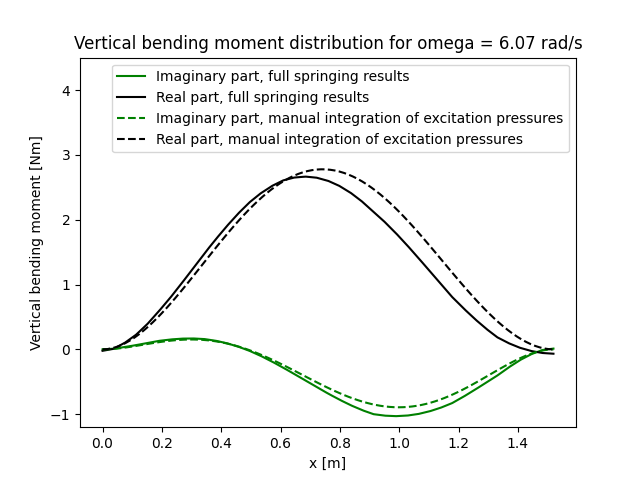
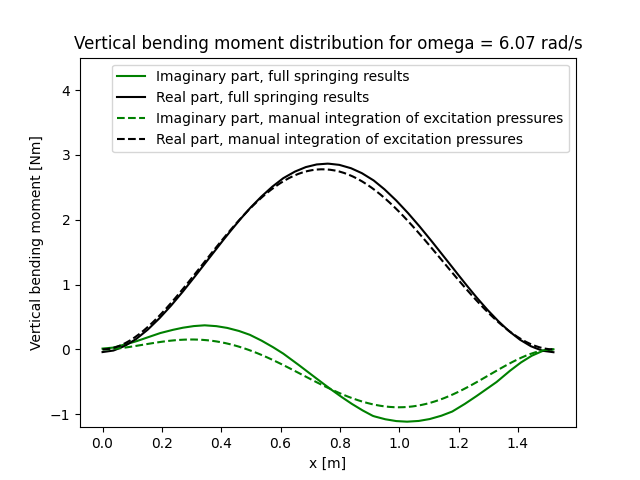
BUGFIX: changed sign of radiation damping from i omega B to -i omega B. This is because Capytaine assumes f(t) = Re(F exp(-i omega t)) for any time dependent quantity f and its complex representation F.

diff --git a/containerShipModelProperSolution.py b/containerShipModelProperSolution.py
@@ -4,6 +4,8 @@ import xarray as xr
 import os
 import springing as spr
 from matplotlib import pyplot as plt
+from capytaine.bem.airy_waves import airy_waves_free_surface_elevation
+from capytaine.ui.vtk.animation import Animation
 
 cpt.set_logging('INFO')
 
@@ -181,52 +183,14 @@ for i in range(omegas.size):
     structuralMassModalForces[i, :] = -omegas[i]**2 * modalSpringingResults.modalAmplitudes.values[i, 0, :]
     addedMassModalForces[i, :] = -omegas[i]**2 * modalSpringingResults.addedMass.values[i, :, :].transpose() @ modalSpringingResults.modalAmplitudes.values[i, 0, :]
 
-    radiationModalForces[i, :] = complex(0, 1) * omegas[i] * modalSpringingResults.radiationDamping.values[i, :, :].transpose() @ modalSpringingResults.modalAmplitudes.values[i, 0, :]
+    radiationModalForces[i, :] = -complex(0, 1) * omegas[i] * modalSpringingResults.radiationDamping.values[i, :, :].transpose() @ modalSpringingResults.modalAmplitudes.values[i, 0, :]
 
     hydrostaticStiffnessModalForces[i, :] = hydrostaticStiffness.values @ modalSpringingResults.modalAmplitudes.values[i, 0, :]
     structuralStiffnessModalForces[i, :] = np.diag(dryNaturalFrequenciesSquared) @ modalSpringingResults.modalAmplitudes.values[i, 0, :]
 
     matrixTimesAmplitudesModalForces[i, :] = modalSpringingResults.modalForcesFromAmplitudesMatrices.values[i, :, :].transpose() @ modalSpringingResults.modalAmplitudes.values[i, 0, :]
 
-    modalForcesFromDisplacementsMatrices[i, :, :] = -omegas[i]**2 * (np.eye((beamSegments + 1) * 7) + modalSpringingResults.addedMass.values[i, :, :].transpose()) + complex(0, 1) * omegas[i] * modalSpringingResults.radiationDamping.values[i, :, :].transpose() + hydrostaticStiffness.values + np.diag(dryNaturalFrequenciesSquared)
-
-# excitationModalForces = froudeKrylovModalForces + diffractionModalForces
-
-# excitationRigidBodyModalForcesNorms = np.linalg.norm(excitationModalForces[:, :6], axis = 1)
-
-# froudeKrylovRigidBodyModalForcesNorms = np.linalg.norm(froudeKrylovModalForces[:, :6], axis = 1)
-# diffractionRigidBodyModalForcesNorms = np.linalg.norm(diffractionModalForces[:, :6], axis = 1)
-# structuralMassRigidBodyModalForcesNorms = np.linalg.norm(structuralMassModalForces[:, :6], axis = 1)
-# addedMassRigidBodyModalForcesNorms = np.linalg.norm(addedMassModalForces[:, :6], axis = 1)
-# radiationRigidBodyModalForcesNorms = np.linalg.norm(radiationModalForces[:, :6], axis = 1)
-# hydrostaticStiffnessRigidBodyModalForcesNorms = np.linalg.norm(hydrostaticStiffnessModalForces[:, :6], axis = 1)
-# structuralStiffnessRigidBodyModalForcesNorms = np.linalg.norm(structuralStiffnessModalForces[:, :6], axis = 1)
-
-# froudeKrylovRigidBodyModalForcesCosWRTExcitation = np.sum(froudeKrylovModalForces[:, :6] * np.conj(excitationModalForces[:, :6]), axis = 1) / excitationRigidBodyModalForcesNorms / froudeKrylovRigidBodyModalForcesNorms
-# diffractionRigidBodyModalForcesCosWRTExcitation = np.sum(diffractionModalForces[:, :6] * np.conj(excitationModalForces[:, :6]), axis = 1) / excitationRigidBodyModalForcesNorms / diffractionRigidBodyModalForcesNorms
-# structuralMassRigidBodyModalForcesCosWRTExcitation = np.sum(structuralMassModalForces[:, :6] * np.conj(excitationModalForces[:, :6]), axis = 1) / excitationRigidBodyModalForcesNorms / structuralMassRigidBodyModalForcesNorms
-# addedMassRigidBodyModalForcesCosWRTExcitation = np.sum(addedMassModalForces[:, :6] * np.conj(excitationModalForces[:, :6]), axis = 1) / excitationRigidBodyModalForcesNorms / addedMassRigidBodyModalForcesNorms
-# radiationRigidBodyModalForcesCosWRTExcitation = np.sum(radiationModalForces[:, :6] * np.conj(excitationModalForces[:, :6]), axis = 1) / excitationRigidBodyModalForcesNorms / radiationRigidBodyModalForcesNorms
-# hydrostaticStiffnessRigidBodyModalForcesCosWRTExcitation = np.sum(hydrostaticStiffnessModalForces[:, :6] * np.conj(excitationModalForces[:, :6]), axis = 1) / excitationRigidBodyModalForcesNorms / hydrostaticStiffnessRigidBodyModalForcesNorms
-# structuralStiffnessRigidBodyModalForcesCosWRTExcitation = np.sum(structuralStiffnessModalForces[:, :6] * np.conj(excitationModalForces[:, :6]), axis = 1) / excitationRigidBodyModalForcesNorms / structuralStiffnessRigidBodyModalForcesNorms
-
-# excitationElasticModalForcesNorms = np.linalg.norm(excitationModalForces[:, 6:13], axis = 1)
-
-# froudeKrylovElasticModalForcesNorms = np.linalg.norm(froudeKrylovModalForces[:, 6:13], axis = 1)
-# diffractionElasticModalForcesNorms = np.linalg.norm(diffractionModalForces[:, 6:13], axis = 1)
-# structuralMassElasticModalForcesNorms = np.linalg.norm(structuralMassModalForces[:, 6:13], axis = 1)
-# addedMassElasticModalForcesNorms = np.linalg.norm(addedMassModalForces[:, 6:13], axis = 1)
-# radiationElasticModalForcesNorms = np.linalg.norm(radiationModalForces[:, 6:13], axis = 1)
-# hydrostaticStiffnessElasticModalForcesNorms = np.linalg.norm(hydrostaticStiffnessModalForces[:, 6:13], axis = 1)
-# structuralStiffnessElasticModalForcesNorms = np.linalg.norm(structuralStiffnessModalForces[:, 6:13], axis = 1)
-
-# froudeKrylovElasticModalForcesCosWRTExcitation = np.sum(froudeKrylovModalForces[:, 6:13] * np.conj(excitationModalForces[:, 6:13]), axis = 1) / excitationElasticModalForcesNorms / froudeKrylovElasticModalForcesNorms
-# diffractionElasticModalForcesCosWRTExcitation = np.sum(diffractionModalForces[:, 6:13] * np.conj(excitationModalForces[:, 6:13]), axis = 1) / excitationElasticModalForcesNorms / diffractionElasticModalForcesNorms
-# structuralMassElasticModalForcesCosWRTExcitation = np.sum(structuralMassModalForces[:, 6:13] * np.conj(excitationModalForces[:, 6:13]), axis = 1) / excitationElasticModalForcesNorms / structuralMassElasticModalForcesNorms
-# addedMassElasticModalForcesCosWRTExcitation = np.sum(addedMassModalForces[:, 6:13] * np.conj(excitationModalForces[:, 6:13]), axis = 1) / excitationElasticModalForcesNorms / addedMassElasticModalForcesNorms
-# radiationElasticModalForcesCosWRTExcitation = np.sum(radiationModalForces[:, 6:13] * np.conj(excitationModalForces[:, 6:13]), axis = 1) / excitationElasticModalForcesNorms / radiationElasticModalForcesNorms
-# hydrostaticStiffnessElasticModalForcesCosWRTExcitation = np.sum(hydrostaticStiffnessModalForces[:, 6:13] * np.conj(excitationModalForces[:, 6:13]), axis = 1) / excitationElasticModalForcesNorms / hydrostaticStiffnessElasticModalForcesNorms
-# structuralStiffnessElasticModalForcesCosWRTExcitation = np.sum(structuralStiffnessModalForces[:, 6:13] * np.conj(excitationModalForces[:, 6:13]), axis = 1) / excitationElasticModalForcesNorms / structuralStiffnessElasticModalForcesNorms
+    modalForcesFromDisplacementsMatrices[i, :, :] = -omegas[i]**2 * (np.eye((beamSegments + 1) * 7) + modalSpringingResults.addedMass.values[i, :, :].transpose()) - complex(0, 1) * omegas[i] * modalSpringingResults.radiationDamping.values[i, :, :].transpose() + hydrostaticStiffness.values + np.diag(dryNaturalFrequenciesSquared)
 
 def MidshipsBendingMomentFromModalForces(modalForces: np.ndarray):
     elasticModalDisplacements = np.diag(1 / dryNaturalFrequenciesSquared[6:]) @ modalForces[6:]
@@ -467,8 +431,10 @@ motion = {}
 dofIndex = 0
 
 for dof in hullBody.dofs.keys():
-    motion[dof] = waveHeight * modalSpringingResults.modalAmplitudes.values[omegaIndex, 0, dofIndex]
+    motion[dof] = waveHeight / 2 * modalSpringingResults.modalAmplitudes.values[omegaIndex, 0, dofIndex]
     dofIndex += 1
 
 animation = hullBody.animate(motion = motion, loop_duration = 1)
+free_surface = cpt.FreeSurface(x_range=(-5, 5), y_range=(-5, 5), nx=150, ny=150)
+animation.add_free_surface(free_surface, faces_elevation = waveHeight / 2 * airy_waves_free_surface_elevation(free_surface.mesh, diffractionProblem))
 animation.run()

diff --git a/springing.py b/springing.py
@@ -1395,7 +1395,7 @@ class NodalSpringingResults:
         self.massMatrix = xr.DataArray(massMatrix, dims = ['influenced_dof', 'radiating_dof'])
         self.stiffnessMatrix = xr.DataArray(stiffnessMatrix, dims = ['influenced_dof', 'radiating_dof'])
 
-        self.forcesFromAmplitudesMatrices: xr.DataArray = - (hydrodynamicResults.added_mass + self.massMatrix) * hydrodynamicResults.omega**2 + complex(0,1) * hydrodynamicResults.omega * hydrodynamicResults.radiation_damping + (self.stiffnessMatrix + hydrostaticStiffness)
+        self.forcesFromAmplitudesMatrices: xr.DataArray = - (hydrodynamicResults.added_mass + self.massMatrix) * hydrodynamicResults.omega**2 - complex(0,1) * hydrodynamicResults.omega * hydrodynamicResults.radiation_damping + (self.stiffnessMatrix + hydrostaticStiffness)
 
         self.amplitudesFromForcesMatrices = xr.DataArray(la.inv(self.forcesFromAmplitudesMatrices), dims = ['omega', 'influenced_dof', 'radiating_dof'])
 
@@ -1464,7 +1464,7 @@ class ModalSpringingResults:
         stiffnessMatrix = np.diag(dryNaturalFrequenciesSquared)
         self.stiffnessMatrix = xr.DataArray(stiffnessMatrix, dims = ['influenced_dof', 'radiating_dof'])
 
-        self.modalForcesFromAmplitudesMatrices: xr.DataArray = - (modalHydrodynamicResults.added_mass + self.massMatrix) * modalHydrodynamicResults.omega**2 + complex(0,1) * modalHydrodynamicResults.omega * modalHydrodynamicResults.radiation_damping + (self.stiffnessMatrix + modalHydrostaticStiffness)
+        self.modalForcesFromAmplitudesMatrices: xr.DataArray = - (modalHydrodynamicResults.added_mass + self.massMatrix) * modalHydrodynamicResults.omega**2 - complex(0,1) * modalHydrodynamicResults.omega * modalHydrodynamicResults.radiation_damping + (self.stiffnessMatrix + modalHydrostaticStiffness)
 
         self.modalAmplitudesFromForcesMatrices = xr.DataArray(la.inv(self.modalForcesFromAmplitudesMatrices), dims = ['omega', 'influenced_dof', 'radiating_dof'])
 
@@ -1547,7 +1547,7 @@ class ModalProperSpringingResults:
         radiationDampingMatrix[:, numberRadiatingDofs:, :numberRadiatingDofs] = np.transpose(modalHydrodynamicResults.radiation_damping.values[:, :, numberRadiatingDofs:], [0, 2, 1])
         self.radiationDamping = xr.DataArray(radiationDampingMatrix, dims = ['omega', 'radiating_dof', 'influenced_dof'])
 
-        self.modalForcesFromAmplitudesMatrices: xr.DataArray = - (self.addedMass + self.massMatrix) * modalHydrodynamicResults.omega**2 + complex(0,1) * modalHydrodynamicResults.omega * self.radiationDamping + (self.stiffnessMatrix + modalHydrostaticStiffness)
+        self.modalForcesFromAmplitudesMatrices: xr.DataArray = - (self.addedMass + self.massMatrix) * modalHydrodynamicResults.omega**2 - complex(0,1) * modalHydrodynamicResults.omega * self.radiationDamping + (self.stiffnessMatrix + modalHydrostaticStiffness)
 
         self.modalAmplitudesFromForcesMatrices = xr.DataArray(la.inv(self.modalForcesFromAmplitudesMatrices), dims = ['omega', 'influenced_dof', 'radiating_dof'])
 

diff --git a/seakeepingComparison.py b/seakeepingComparison.py
@@ -124,7 +124,7 @@ for i in range(6):
     radiationResults[i] = cpt.BEMSolver().solve(radiationProblem, keep_details = True)
 
 # coupling of hydrodynamics and rigid body, seakeeping results
-forcesFromAmplitudesMatrices: xr.DataArray = - (hydrodynamicSeakeepingResults.added_mass + massMatrix) * hydrodynamicSeakeepingResults.omega**2 + complex(0,1) * hydrodynamicSeakeepingResults.omega * hydrodynamicSeakeepingResults.radiation_damping + hydrostaticStiffness
+forcesFromAmplitudesMatrices: xr.DataArray = - (hydrodynamicSeakeepingResults.added_mass + massMatrix) * hydrodynamicSeakeepingResults.omega**2 - complex(0,1) * hydrodynamicSeakeepingResults.omega * hydrodynamicSeakeepingResults.radiation_damping + hydrostaticStiffness
 
 amplitudesFromForcesMatrices = xr.DataArray(la.inv(forcesFromAmplitudesMatrices), dims = ['omega', 'influenced_dof', 'radiating_dof'])
 
